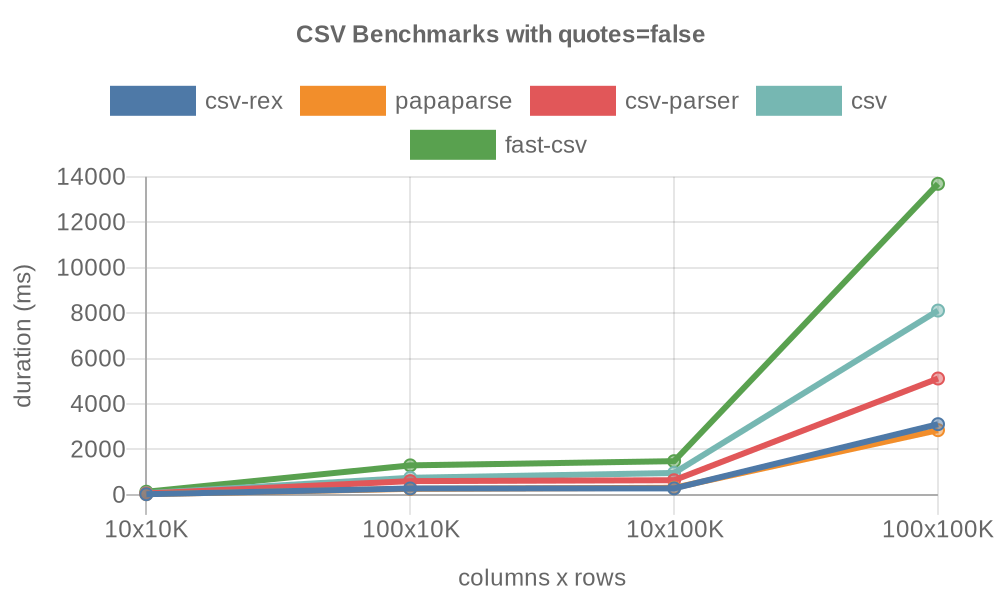
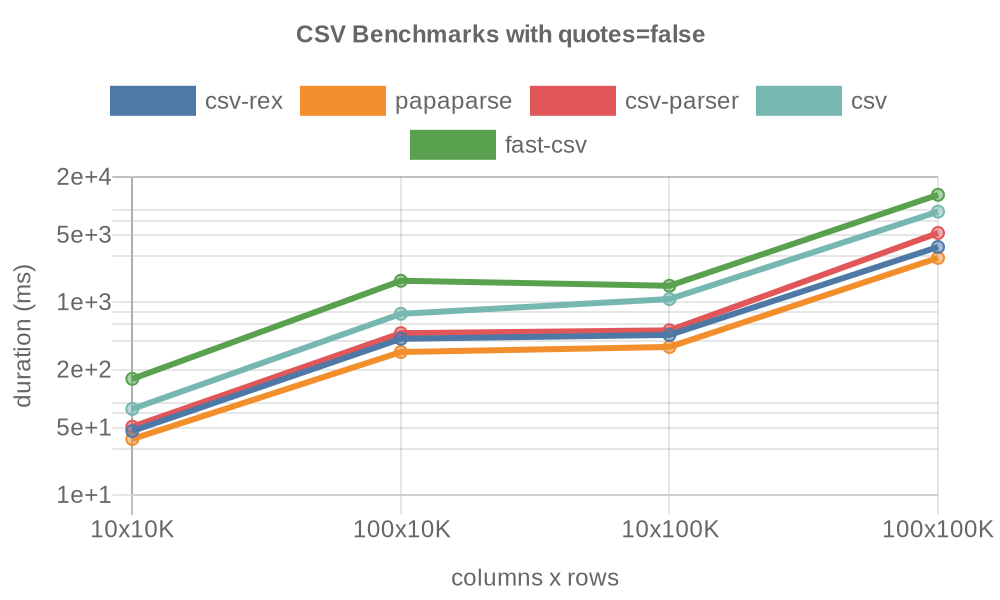
docs: update scale

Changed region(s): [[0.062, 0.27, 0.961, 0.9], [0.434, 0.93, 0.62, 0.99]]

diff --git a/index.js b/index.js
@@ -83,6 +83,7 @@ const run = async (quotes = false) => {
         yAxes: [
           {
             display: true,
+            type: 'logarithmic',
             scaleLabel: {
               display: true,
               labelString: 'duration (ms)',
